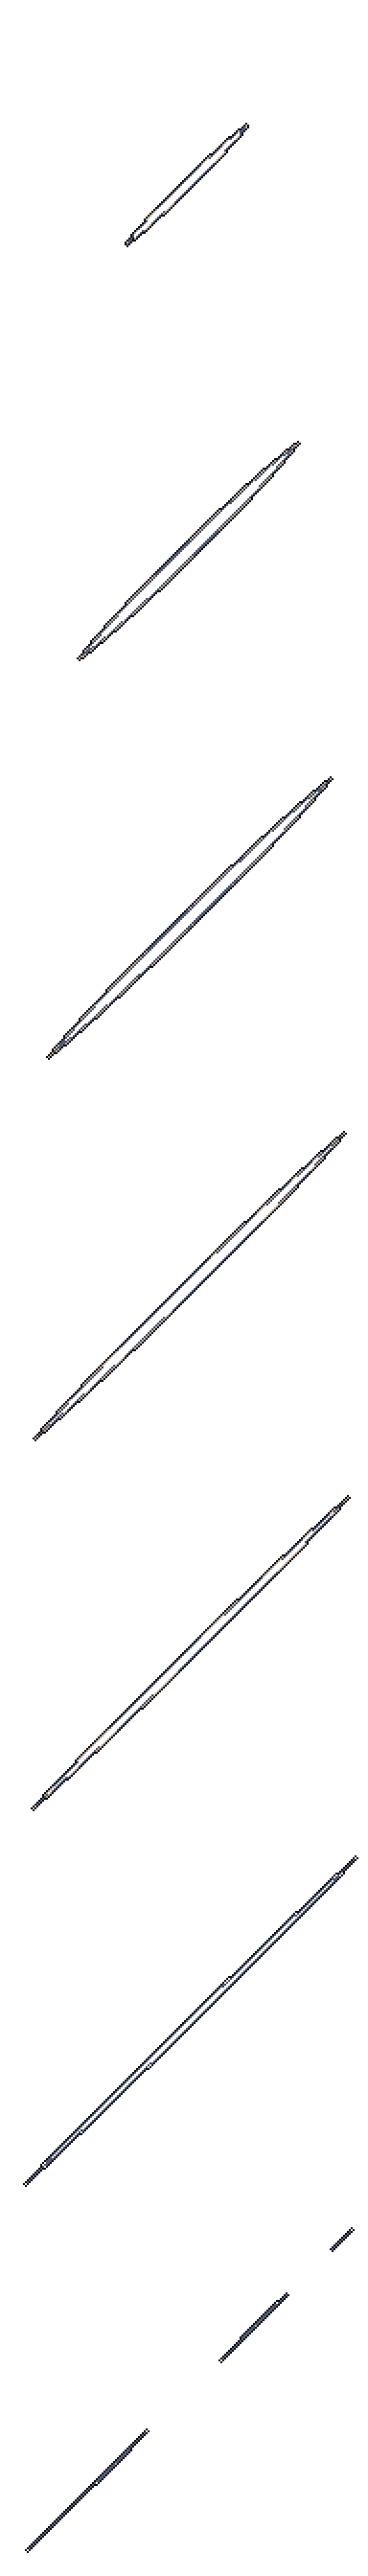
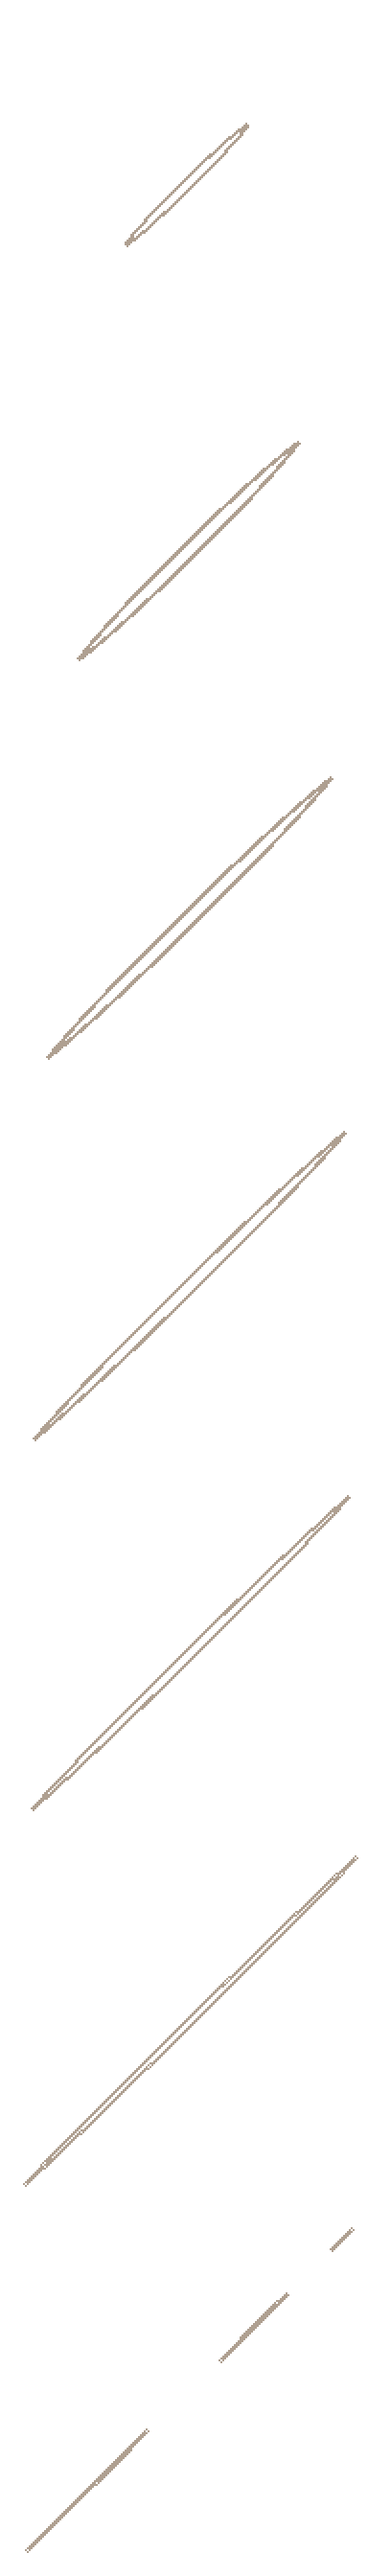
base hit effect

diff --git a/Content/Bases/BaseHitEffect.cs b/Content/Bases/BaseHitEffect.cs
@@ -1,6 +1,8 @@
 using CrystalMoon.Systems.Particles;
+using CrystalMoon.Visual.Animation;
 using CrystalMoon.Visual.Particles;
 using Microsoft.Xna.Framework;
+using Microsoft.Xna.Framework.Graphics;
 using Terraria;
 using Terraria.Audio;
 using Terraria.ID;
@@ -10,6 +12,9 @@ namespace CrystalMoon.Content.Bases
 {
     public class BaseHitEffect : ModProjectile
     {
+        private int _frameCounter;
+        private int _frameTick;
+
         public override void SetStaticDefaults()
         {
             Main.projFrames[Projectile.type] = 7;
@@ -24,7 +29,7 @@ namespace CrystalMoon.Content.Bases
             Projectile.timeLeft = 900;
             Projectile.tileCollide = false;
             Projectile.aiStyle = -1;
-            Projectile.scale = 0.4f;
+            Projectile.scale = 1f;
         }
 
         public override bool PreAI()
@@ -36,13 +41,29 @@ namespace CrystalMoon.Content.Bases
 
             if (Projectile.ai[0] <= 1)
             {
-                for (int i = 0; i < 5; i++)
+                for (int i = 0; i < 3; i++)
                 {
                     Vector2 spawnPoint = Projectile.Center + Main.rand.NextVector2Circular(8, 8);
                     Vector2 velocity = Main.rand.NextVector2Circular(8, 8);
                     Particle.NewParticle<GlowParticle>(spawnPoint, velocity, Color.White);
+
+                  
+                       
+                    
                 }
 
+                for (int i = 0; i < 1; i++)
+                {
+                    Vector2 spawnPoint = Projectile.Center + Main.rand.NextVector2Circular(8, 8);
+                    Vector2 velocity = Main.rand.NextVector2Circular(0, 1);
+                    Particle.NewParticle<StrikeParticle>(spawnPoint, velocity, Color.White);
+                    Particle.NewParticle<Strike2Particle>(spawnPoint, velocity, Color.White);
+
+
+
+                }
+
+                Projectile.rotation = Main.rand.Next(0, 360);
                 /*
                 SoundStyle soundStyle = new SoundStyle("Stellamod/Assets/Sounds/RipperSlash2");
                 soundStyle.PitchVariance = 0.5f;
@@ -50,20 +71,36 @@ namespace CrystalMoon.Content.Bases
                 */
             }
 
-            Projectile.rotation = Projectile.velocity.ToRotation() + MathHelper.ToRadians(45);
+            
             Projectile.frameCounter++;
-            if (Projectile.frameCounter >= 2)
+
+
+            if (++_frameTick >= 3)
             {
-                Projectile.frame++;
-                Projectile.frameCounter = 0;
-                if (Projectile.frame >= 7)
+                _frameTick = 0;
+                if (++_frameCounter >= 7)
                 {
                     Projectile.active = false;
+                    _frameCounter = 0;
                 }
-
-
             }
             return true;
+        }
+        public override bool PreDraw(ref Color lightColor)
+        {
+            Texture2D texture = ModContent.Request<Texture2D>(Texture).Value;
+            Vector2 drawPosition = Projectile.Center - Main.screenPosition;
+
+            float width = 192 * 2;
+            float height = 192 * 2;
+            Vector2 origin = new Vector2(width / 2, height / 2);
+            int frameSpeed = 3;
+            int frameCount = 7;
+            SpriteBatch spriteBatch = Main.spriteBatch;
+            spriteBatch.Draw(texture, drawPosition,
+                texture.AnimationFrame(ref _frameCounter, ref _frameTick, frameSpeed, frameCount, false),
+                Color.White, Projectile.rotation, origin, 0.4f, SpriteEffects.None, 0f);
+            return false;
         }
 
         public override void OnKill(int timeLeft)

diff --git a/Visual/Particles/Strike2Particle.cs b/Visual/Particles/Strike2Particle.cs
@@ -1,0 +1,60 @@
+using CrystalMoon.Systems.Particles;
+using Microsoft.Xna.Framework;
+using System;
+using System.Collections.Generic;
+using System.Linq;
+using System.Text;
+using System.Threading.Tasks;
+using Terraria;
+
+namespace CrystalMoon.Visual.Particles
+{
+    internal class Strike2Particle : Particle
+    {
+        public int FrameWidth = 451;
+        public int FrameHeight = 451;
+        public int MaxHorizontalFrameCount = 5;
+        public int MaxVerticalFrameCount = 5;
+        public int FrameCounter = 0;
+        public int TicksPerFrame = 2;
+        public override void OnSpawn()
+        {
+            Rotation += Main.rand.NextFloat(-MathHelper.TwoPi, MathHelper.TwoPi);
+            Frame = new Rectangle(0, 0, FrameWidth, FrameHeight);
+            Scale *= 0.3f;
+        }
+
+        public override void Update()
+        {
+            Velocity *= 0.98f;
+            Rotation += 0.01f;
+            Scale *= 0.997f;
+            color *= 0.99f;
+
+            FrameCounter++;
+            if (FrameCounter >= TicksPerFrame)
+            {
+                if(Frame.X < FrameWidth * MaxHorizontalFrameCount)
+                {
+                    Frame.X += FrameWidth;
+                  
+                }
+
+                if(Frame.X >= Frame.Width * MaxHorizontalFrameCount)
+                {
+                    Frame.Y += FrameHeight;
+                }
+
+                if(Frame.Y >= Frame.Height * MaxVerticalFrameCount)
+                {
+                    active = false;
+                }
+                FrameCounter = 0;
+            }
+
+            fadeIn++;
+            if (fadeIn > 60 || color.A < 10)
+                active = false;
+        }
+    }
+}

diff --git a/Visual/Animation/AnimationFrame.cs b/Visual/Animation/AnimationFrame.cs
@@ -1,0 +1,25 @@
+using Microsoft.Xna.Framework;
+using Microsoft.Xna.Framework.Graphics;
+
+namespace CrystalMoon.Visual.Animation
+{
+    public static class AnimationExtension
+    {
+        public static float InRadians(this float degrees) => MathHelper.ToRadians(degrees);
+
+        /// <summary>Shorthand for converting radians of rotation into a degrees equivalent.</summary>
+        public static float InDegrees(this float radians) => MathHelper.ToDegrees(radians);
+
+        public static Rectangle AnimationFrame(this Texture2D texture, ref int frame, ref int frameTick, int frameTime, int frameCount, bool frameTickIncrease, int overrideHeight = 0)
+        {
+            if (frameTick >= frameTime)
+            {
+                frameTick = -1;
+                frame = frame == frameCount - 1 ? 0 : frame + 1;
+            }
+            if (frameTickIncrease)
+                frameTick++;
+            return new Rectangle(0, overrideHeight != 0 ? overrideHeight * frame : (texture.Height / frameCount) * frame, texture.Width, texture.Height / frameCount);
+        }
+    }
+}

diff --git a/Content/Bases/BaseSwingProjectile.cs b/Content/Bases/BaseSwingProjectile.cs
@@ -403,7 +403,7 @@ namespace CrystalMoon.Content.Bases
 
             float speedXa = -Projectile.velocity.X * Main.rand.NextFloat(.4f, .7f) + Main.rand.NextFloat(-8f, 8f);
             float speedYa = -Projectile.velocity.Y * Main.rand.Next(0, 0) * 0.01f + Main.rand.Next(-20, 21) * 0.0f;
-            Projectile.NewProjectile(Projectile.GetSource_FromThis(), Projectile.position.X + speedXa, Projectile.position.Y + speedYa, speedXa * 0, speedYa * 0, ModContent.ProjectileType<BaseHitEffect>(), (int)(Projectile.damage * 0), 0f, Projectile.owner, 0f, 0f);
+            Projectile.NewProjectile(Projectile.GetSource_FromThis(), target.Center.X, target.Center.Y, speedXa * 0, speedYa * 0, ModContent.ProjectileType<BaseHitEffect>(), (int)(Projectile.damage * 0), 0f, Projectile.owner, 0f, 0f);
             _hashit = true;
         }
     }

diff --git a/Content/Items/Weapons/Melee/Swords/CrystallineSlasher.cs b/Content/Items/Weapons/Melee/Swords/CrystallineSlasher.cs
@@ -213,7 +213,7 @@ namespace CrystalMoon.Content.Items.Weapons.Melee.Swords
             if (!Hit)
             {
                 Main.LocalPlayer.GetModPlayer<EffectsPlayer>().ShakeAtPosition(target.Center, 1024f, 8f);
-                Particle.NewParticle<IceStrikeParticle>(target.Center, Vector2.Zero, Color.White);
+             //   Particle.NewParticle<IceStrikeParticle>(target.Center, Vector2.Zero, Color.White);
 
                 Hit = true;
                 hitstopTimer = 4 * ExtraUpdateMult;
